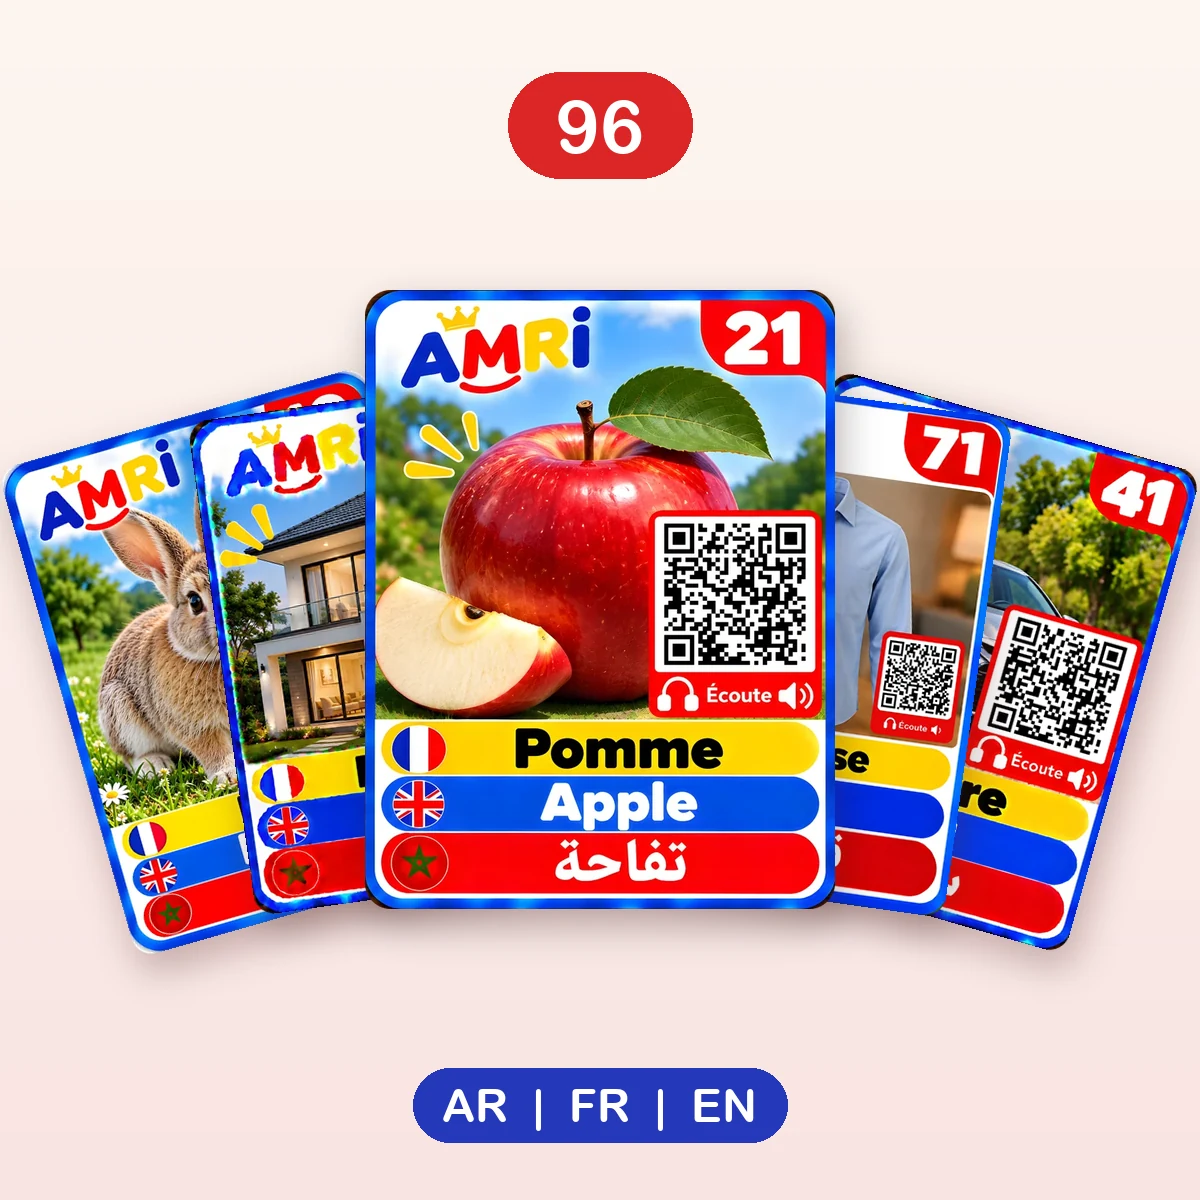
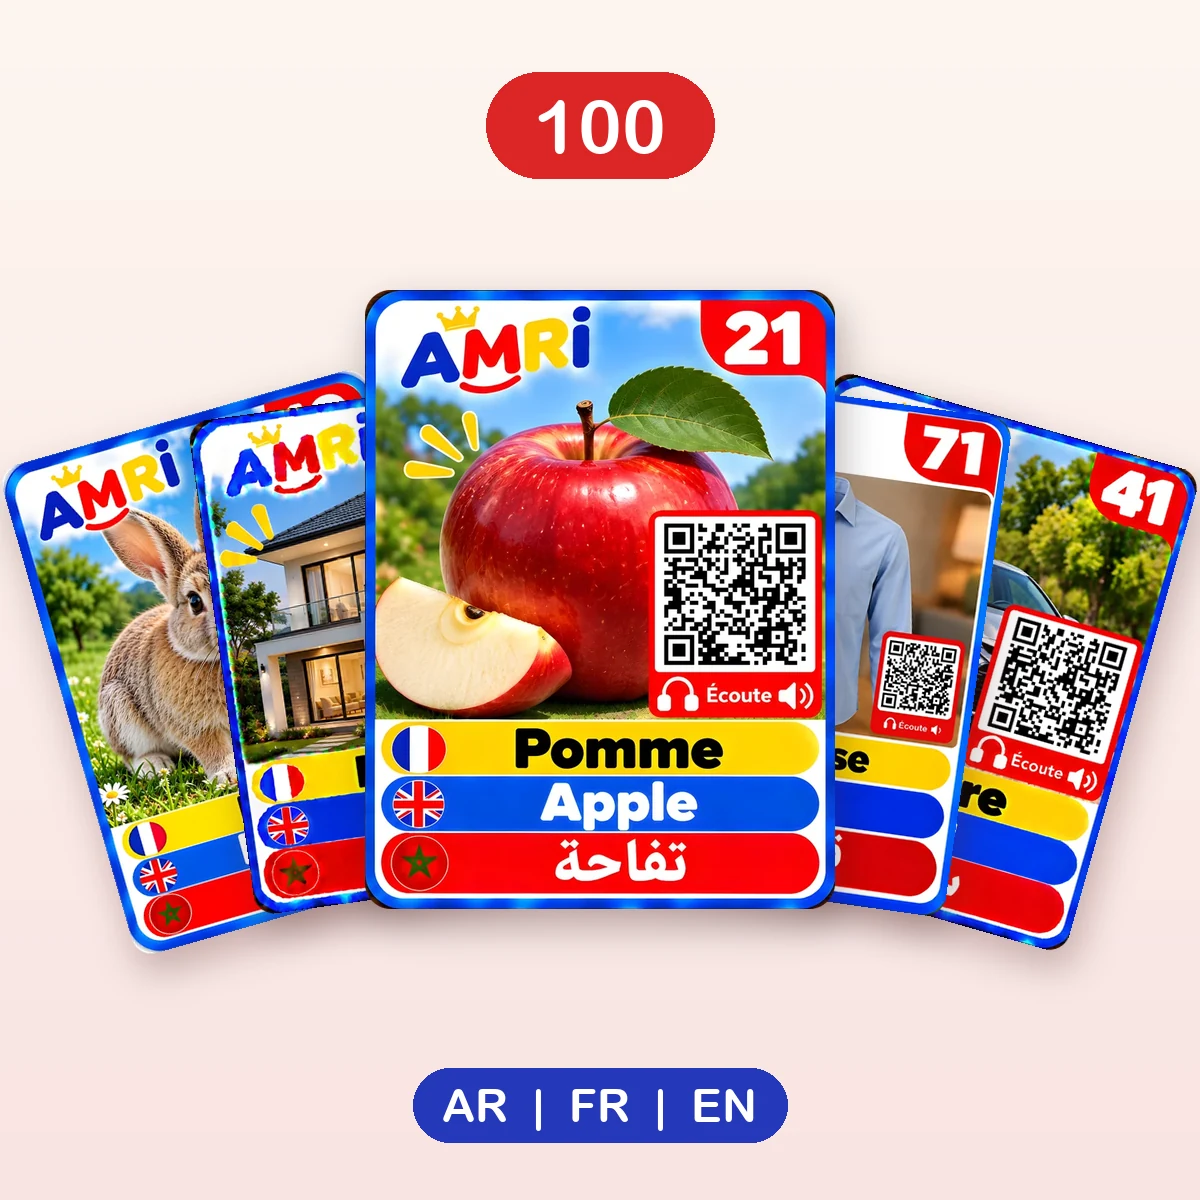
Add Amri photo cards 97-100, completing the photo pack at 100
build.py now reads the card count from each PDF, since the last file
holds four cards.

Changed region(s): [[0.4008, 0.0617, 0.6167, 0.1542]]

diff --git a/src/lib/data/seed.ts b/src/lib/data/seed.ts
@@ -71,9 +71,9 @@ export const seedProducts: Product[] = [
     id: "prd_amri_photo_80",
     slug: "amri-photo-80",
     title: {
-      fr: "Amri · 96 cartes photo arabe – français – anglais",
-      ar: "Amri · 96 بطاقة بالصور عربي – فرنسي – إنجليزي",
-      en: "Amri · 96 photo cards Arabic – French – English",
+      fr: "Amri · 100 cartes photo arabe – français – anglais",
+      ar: "Amri · 100 بطاقة بالصور عربي – فرنسي – إنجليزي",
+      en: "Amri · 100 photo cards Arabic – French – English",
     },
     tagline: {
       fr: "De vraies photos pour apprendre ses premiers mots — et un QR code pour les écouter",
@@ -81,9 +81,9 @@ export const seedProducts: Product[] = [
       en: "Real photos to learn first words — and a QR code to hear them",
     },
     description: {
-      fr: "96 cartes recto verso illustrées de vraies photos : animaux, fruits et aliments, transports, engins de chantier, la maison, les vêtements et la nature. Au recto : la photo et le mot en français, en anglais et en arabe. Au verso : des petites questions (la couleur, où on le trouve, la bonne phrase) pour jouer avec l'enfant.\n\nChaque carte porte un QR code « Écoute » : scannez-le avec un téléphone pour entendre le mot et sa phrase dans les trois langues.",
-      ar: "96 بطاقة على الوجهين بصور حقيقية: الحيوانات، الفواكه والأطعمة، وسائل النقل، آليات البناء، المنزل، الملابس والطبيعة. على الوجه الأمامي: الصورة والكلمة بالفرنسية والإنجليزية والعربية. وعلى الظهر: أسئلة صغيرة (اللون، أين نجده، الجملة الصحيحة) للّعب مع الطفل.\n\nعلى كل بطاقة رمز QR «استمع»: امسحه بالهاتف لسماع الكلمة وجملتها باللغات الثلاث.",
-      en: "96 double-sided cards with real photos: animals, fruit and food, transport, construction machines, the home, clothes and nature. Front: the photo and the word in French, English and Arabic. Back: little questions (its colour, where to find it, the right sentence) to play with your child.\n\nEvery card has a “Listen” QR code: scan it with a phone to hear the word and its sentence in all three languages.",
+      fr: "100 cartes recto verso illustrées de vraies photos : animaux, fruits et aliments, transports, engins de chantier, la maison, les vêtements et la nature. Au recto : la photo et le mot en français, en anglais et en arabe. Au verso : des petites questions (la couleur, où on le trouve, la bonne phrase) pour jouer avec l'enfant.\n\nChaque carte porte un QR code « Écoute » : scannez-le avec un téléphone pour entendre le mot et sa phrase dans les trois langues.",
+      ar: "100 بطاقة على الوجهين بصور حقيقية: الحيوانات، الفواكه والأطعمة، وسائل النقل، آليات البناء، المنزل، الملابس والطبيعة. على الوجه الأمامي: الصورة والكلمة بالفرنسية والإنجليزية والعربية. وعلى الظهر: أسئلة صغيرة (اللون، أين نجده، الجملة الصحيحة) للّعب مع الطفل.\n\nعلى كل بطاقة رمز QR «استمع»: امسحه بالهاتف لسماع الكلمة وجملتها باللغات الثلاث.",
+      en: "100 double-sided cards with real photos: animals, fruit and food, transport, construction machines, the home, clothes and nature. Front: the photo and the word in French, English and Arabic. Back: little questions (its colour, where to find it, the right sentence) to play with your child.\n\nEvery card has a “Listen” QR code: scan it with a phone to hear the word and its sentence in all three languages.",
     },
     type: "pack",
     collectionSlug: "cartes-arabe",
@@ -99,9 +99,9 @@ export const seedProducts: Product[] = [
     ],
     highlights: [
       {
-        fr: "96 cartes recto verso en vraies photos",
-        ar: "96 بطاقة على الوجهين بصور حقيقية",
-        en: "96 double-sided cards with real photos",
+        fr: "100 cartes recto verso en vraies photos",
+        ar: "100 بطاقة على الوجهين بصور حقيقية",
+        en: "100 double-sided cards with real photos",
       },
       {
         fr: "Animaux, aliments, transports, maison, vêtements, nature",
@@ -119,7 +119,7 @@ export const seedProducts: Product[] = [
         en: "Online audio version included (QR code)",
       },
     ],
-    cardCount: 96,
+    cardCount: 100,
     featured: true,
     isActive: true,
     audioEnabled: true,

diff --git a/src/lib/data/amri-photo-cards.ts b/src/lib/data/amri-photo-cards.ts
@@ -1,7 +1,7 @@
 import type { PackCard } from "./types";
 
 /**
- * Seed for the "Amri — 96 cartes photo" audio pack: the words exactly as
+ * Seed for the "Amri — 100 cartes photo" audio pack: the words exactly as
  * printed on the cards (photo cards, one theme per run of numbers). Same
  * role as amri-cards.ts — loaded by `npm run db:add-amri`, then edited in
  * /admin.
@@ -113,7 +113,7 @@ const RAW: [string, string, string, string, string, "هذا" | "هذه"][] = [
   ["شاحنة خلط الخرسانة", "Bétonnière", "Concrete mixer truck", "une bétonnière", "a concrete mixer truck", "هذه"],
   ["آلة التسوية", "Niveleuse", "Grader", "une niveleuse", "a grader", "هذه"],
   ["شاحنة قلابة", "Camion-benne", "Dump truck", "un camion-benne", "a dump truck", "هذه"],
-  // Nature 86–96
+  // Nature 86–99, 100 is a city
   ["شجرة", "Arbre", "Tree", "un arbre", "a tree", "هذه"],
   ["زهرة", "Fleur", "Flower", "une fleur", "a flower", "هذه"],
   ["شمس", "Soleil", "Sun", "un soleil", "a sun", "هذه"],
@@ -125,6 +125,10 @@ const RAW: [string, string, string, string, string, "هذا" | "هذه"][] = [
   ["جبل", "Montagne", "Mountain", "une montagne", "a mountain", "هذا"],
   ["بحر", "Mer", "Sea", "une mer", "a sea", "هذا"],
   ["نهر", "Rivière", "River", "une rivière", "a river", "هذا"],
+  ["سماء", "Ciel", "Sky", "un ciel", "a sky", "هذه"],
+  ["بحيرة", "Lac", "Lake", "un lac", "a lake", "هذه"],
+  ["غابة", "Forêt", "Forest", "une forêt", "a forest", "هذه"],
+  ["مدينة", "Ville", "City", "une ville", "a city", "هذه"],
 ];
 
 export const amriPhotoCards: PackCard[] = RAW.map(([ar, fr, en, frIs, enIs, arThis], i) => ({

diff --git a/scripts/amri-photo/build.py b/scripts/amri-photo/build.py
@@ -230,7 +230,8 @@ def build(in_dir, work, out_dir, base):
     added = []
     for path in pdfs(in_dir):
         start = pdf_start(path)
-        order = PAGE_ORDER.get(start, range(start, start + 8))
+        # Eight cards a file, but the last (97-100) has four.
+        order = PAGE_ORDER.get(start, range(start, start + len(pymupdf.open(path)) // 2))
         doc = pymupdf.open()
         for n in sorted(order):
             front_1x = cv2.imread(f"{work}/faces/{n:03d}-front.png")

diff --git a/scripts/amri-photo/photos.py b/scripts/amri-photo/photos.py
@@ -86,7 +86,7 @@ def main(work):
     for n, dx, angle in [(12, -350, 16), (41, 350, -16), (56, -190, 8), (71, 190, -8)]:
         place(c, front(n), 380, (SIZE / 2 + dx, 620 + abs(dx) * 0.12), angle)
     place(c, front(21), 470, (SIZE / 2, 600))
-    pill(c, "96", (SIZE / 2, 125), RED, 74)
+    pill(c, "100", (SIZE / 2, 125), RED, 74)
     pill(c, "AR  |  FR  |  EN", (SIZE / 2, 1105), BLUE, 46)
     save(c, "cover")
 
